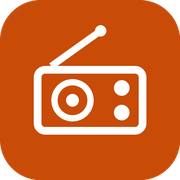
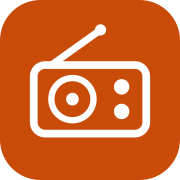
Délai réseau sur les appels JSON restants, icônes PNG synchronisées
- 12 appels de recherche/flux (podcasts, musique, Spotify, now-playing) ont
  un délai de 10 s : un service lent ne bloque plus l'écran indéfiniment
- Téléchargements d'épisodes et rendu hors-ligne laissés sans délai (fichiers
  volumineux, un délai couperait un téléchargement légitime)
- Icônes PNG (apple-touch, PWA, favicons) régénérées depuis icon-master.svg

diff --git a/src/components/SpotifyPanel.tsx b/src/components/SpotifyPanel.tsx
@@ -35,7 +35,7 @@ export interface SpotifyTrack {
   image: string; previewUrl: string | null; url: string; durationMs: number;
 }
 async function searchSpotifyTracks(query: string): Promise<SpotifyTrack[]> {
-  const res = await fetch(`/api/spotify/search?type=track&q=${encodeURIComponent(query)}`);
+  const res = await fetch(`/api/spotify/search?type=track&q=${encodeURIComponent(query)}`, { signal: AbortSignal.timeout(10000) });
   if (res.status === 503) throw new Error("Spotify n'est pas configuré.");
   if (!res.ok) throw new Error(`Spotify ${res.status}`);
   const data = await res.json();
@@ -46,7 +46,7 @@ async function searchSpotifyTracks(query: string): Promise<SpotifyTrack[]> {
 // Richer catalog than iTunes; audio is resolved later via the RSS bridge
 // (resolveFeedByName in podcastUtils) when the user opens a show.
 async function searchSpotifyShows(query: string): Promise<iTunesPodcast[]> {
-  const res = await fetch(`/api/spotify/search?type=show&q=${encodeURIComponent(query)}`);
+  const res = await fetch(`/api/spotify/search?type=show&q=${encodeURIComponent(query)}`, { signal: AbortSignal.timeout(10000) });
   if (!res.ok) throw new Error(`Spotify ${res.status}`);
   const data = await res.json();
   return (data.shows ?? []).map((s: any, i: number): iTunesPodcast => ({
@@ -69,7 +69,7 @@ async function searchPodcasts(query: string): Promise<iTunesPodcast[]> {
     term: query, media: "podcast", entity: "podcast",
     country: "FR", lang: "fr_fr", limit: "20",
   });
-  const res = await fetch(itunesProxy(`https://itunes.apple.com/search?${params}`));
+  const res = await fetch(itunesProxy(`https://itunes.apple.com/search?${params}`), { signal: AbortSignal.timeout(10000) });
   if (!res.ok) throw new Error(`iTunes ${res.status}`);
   const data = await res.json();
   return data.results ?? [];
@@ -93,7 +93,7 @@ const GENRES: { label: string; id: number | null }[] = [
 
 async function getTopFrenchPodcasts(genreId?: number | null): Promise<iTunesPodcast[]> {
   const genrePart = genreId ? `/genre=${genreId}` : "";
-  const res = await fetch(itunesProxy(`https://itunes.apple.com/fr/rss/toppodcasts/limit=25${genrePart}/explicit=true/json`));
+  const res = await fetch(itunesProxy(`https://itunes.apple.com/fr/rss/toppodcasts/limit=25${genrePart}/explicit=true/json`), { signal: AbortSignal.timeout(10000) });
   if (!res.ok) throw new Error("chart error");
   const data = await res.json();
   return (data.feed?.entry ?? []).map((e: any) => ({

diff --git a/src/lib/musicSearch.ts b/src/lib/musicSearch.ts
@@ -19,7 +19,7 @@ export interface MusicTrack {
 }
 
 export async function searchAudius(query: string): Promise<MusicTrack[]> {
-  const res = await fetch(`/api/audius/search?q=${encodeURIComponent(query)}`);
+  const res = await fetch(`/api/audius/search?q=${encodeURIComponent(query)}`, { signal: AbortSignal.timeout(10000) });
   if (res.status === 503) throw new Error("SongPOD momentanément indisponible.");
   if (!res.ok) throw new Error(`SongPOD ${res.status}`);
   const data = await res.json();
@@ -28,7 +28,7 @@ export async function searchAudius(query: string): Promise<MusicTrack[]> {
 
 export async function searchArchive(query: string): Promise<MusicTrack[]> {
   try {
-    const res = await fetch(`/api/archive/search?q=${encodeURIComponent(query)}`);
+    const res = await fetch(`/api/archive/search?q=${encodeURIComponent(query)}`, { signal: AbortSignal.timeout(10000) });
     if (!res.ok) return [];
     const data = await res.json();
     return (data.tracks ?? []).map((t: MusicTrack) => ({ ...t, source: "archive" as const }));
@@ -39,7 +39,7 @@ export async function searchArchive(query: string): Promise<MusicTrack[]> {
 
 export async function searchJamendo(query: string): Promise<MusicTrack[]> {
   try {
-    const res = await fetch(`/api/jamendo/search?q=${encodeURIComponent(query)}`);
+    const res = await fetch(`/api/jamendo/search?q=${encodeURIComponent(query)}`, { signal: AbortSignal.timeout(10000) });
     if (!res.ok) return [];
     const data = await res.json();
     return (data.tracks ?? []).map((t: MusicTrack) => ({ ...t, source: "jamendo" as const }));
@@ -50,7 +50,7 @@ export async function searchJamendo(query: string): Promise<MusicTrack[]> {
 
 export async function searchYouTube(query: string): Promise<MusicTrack[]> {
   try {
-    const res = await fetch(`/api/youtube/search?q=${encodeURIComponent(query)}`);
+    const res = await fetch(`/api/youtube/search?q=${encodeURIComponent(query)}`, { signal: AbortSignal.timeout(10000) });
     if (!res.ok) return [];
     const data = await res.json();
     return (data.tracks ?? []).map((t: MusicTrack) => ({ ...t, source: "youtube" as const }));

diff --git a/src/lib/podcastUtils.ts b/src/lib/podcastUtils.ts
@@ -72,7 +72,7 @@ export function itunesProxy(itunesUrl: string): string {
 
 // ── iTunes lookup (resolves feedUrl for chart-feed podcasts) ─────────────
 export async function lookupPodcast(collectionId: number): Promise<iTunesPodcast | null> {
-  const res = await fetch(itunesProxy(`https://itunes.apple.com/lookup?id=${collectionId}&entity=podcast`));
+  const res = await fetch(itunesProxy(`https://itunes.apple.com/lookup?id=${collectionId}&entity=podcast`), { signal: AbortSignal.timeout(10000) });
   if (!res.ok) return null;
   const data = await res.json();
   return data.results?.[0] ?? null;
@@ -88,7 +88,7 @@ export async function resolveFeedByName(name: string): Promise<string> {
     const params = new URLSearchParams({
       term: name, media: "podcast", entity: "podcast", country: "FR", limit: "5",
     });
-    const res = await fetch(itunesProxy(`https://itunes.apple.com/search?${params}`));
+    const res = await fetch(itunesProxy(`https://itunes.apple.com/search?${params}`), { signal: AbortSignal.timeout(10000) });
     if (!res.ok) return "";
     const data = await res.json();
     const items: iTunesPodcast[] = data.results ?? [];

diff --git a/src/components/IpodOverlay.tsx b/src/components/IpodOverlay.tsx
@@ -64,7 +64,7 @@ const GAME_ITEMS: { id: GameType; label: string; icon: string }[] = [
 
 async function fetchTopPodcasts(genreId?: number): Promise<iTunesPodcast[]> {
   const genrePart = genreId ? `/genre=${genreId}` : "";
-  const res = await fetch(`https://itunes.apple.com/fr/rss/toppodcasts/limit=20${genrePart}/explicit=true/json`);
+  const res = await fetch(`https://itunes.apple.com/fr/rss/toppodcasts/limit=20${genrePart}/explicit=true/json`, { signal: AbortSignal.timeout(10000) });
   if (!res.ok) return [];
   const data = await res.json();
   return (data.feed?.entry ?? []).map((e: any) => ({

diff --git a/src/hooks/useNowPlaying.ts b/src/hooks/useNowPlaying.ts
@@ -47,7 +47,7 @@ export function useNowPlaying(station: Station | null, isPlaying: boolean): NowP
       }
 
       try {
-        const res = await fetch(`/api/now-playing?url=${encodeURIComponent(streamUrl)}`);
+        const res = await fetch(`/api/now-playing?url=${encodeURIComponent(streamUrl)}`, { signal: AbortSignal.timeout(10000) });
         if (!res.ok) throw new Error(`HTTP ${res.status}`);
         const data = await res.json();
 
